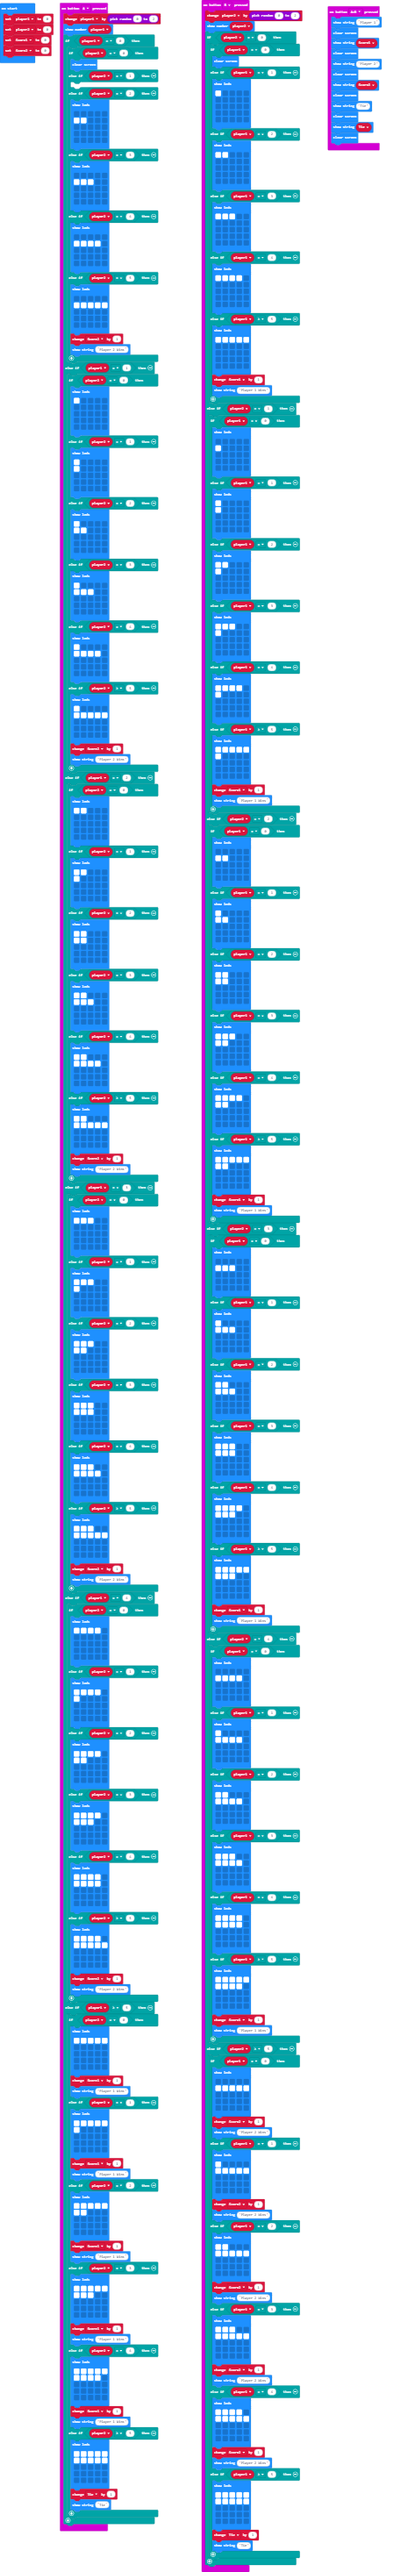
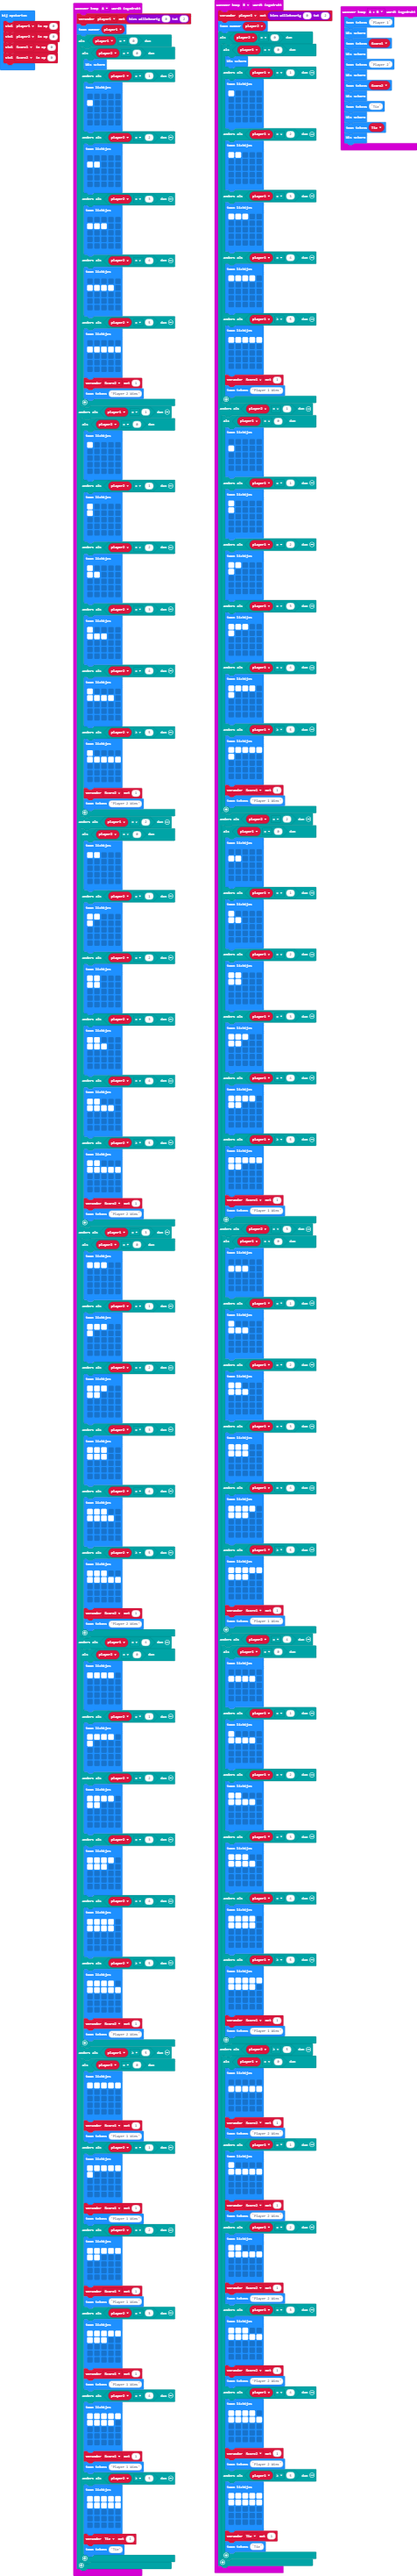
Update main.blocks, main.ts

diff --git a/main.ts b/main.ts
@@ -5,7 +5,13 @@ input.onButtonPressed(Button.A, function () {
         if (player2 == 0) {
             basic.clearScreen()
         } else if (player2 == 1) {
-        	
+            basic.showLeds(`
+                . . . . .
+                # . . . .
+                . . . . .
+                . . . . .
+                . . . . .
+                `)
         } else if (player2 == 2) {
             basic.showLeds(`
                 . . . . .
